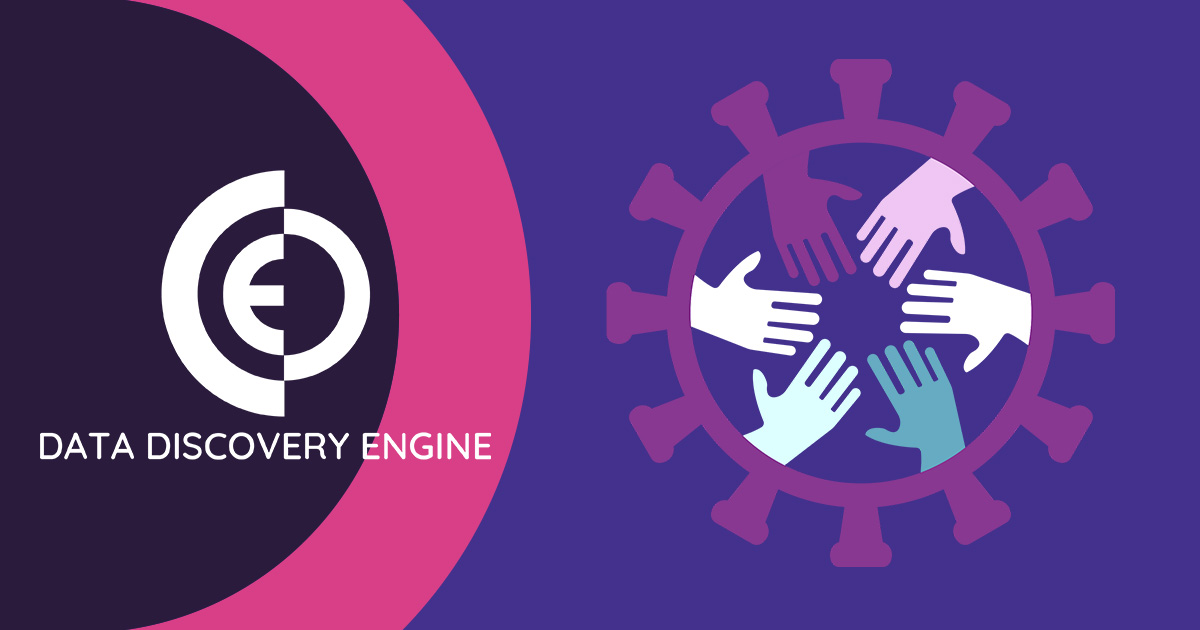
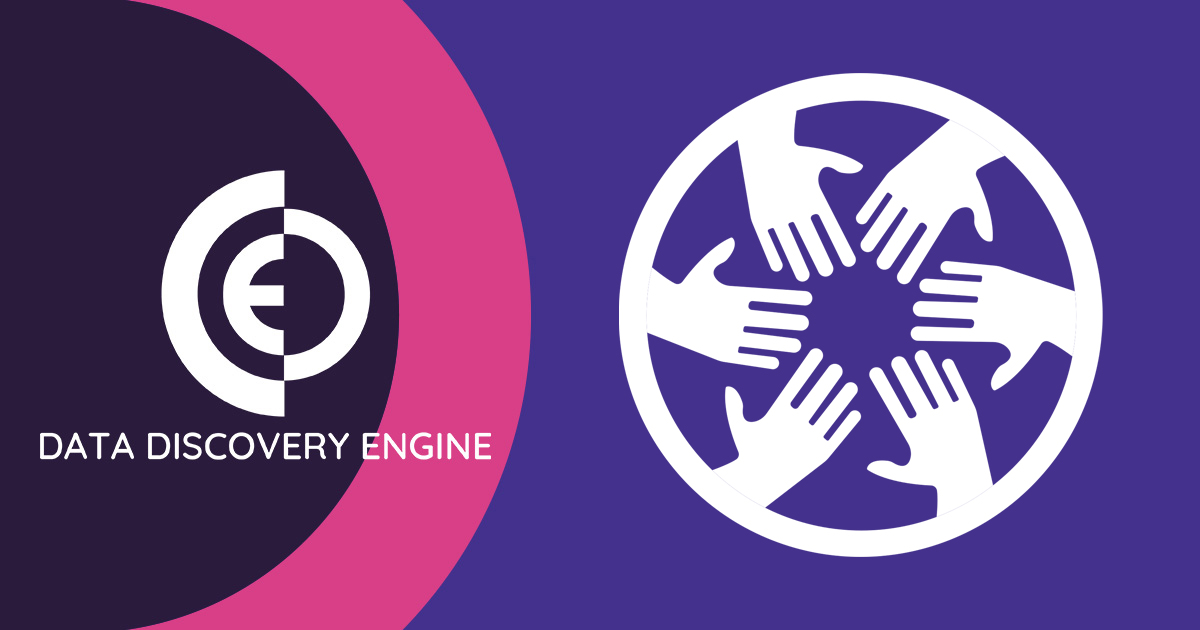
feat: :sparkles: N3C portal renaming

Changed region(s): [[0.4933, 0.0905, 0.9558, 0.9048]]

diff --git a/nuxt-app/store/modules/portals.js b/nuxt-app/store/modules/portals.js
@@ -86,7 +86,7 @@ export const portals = {
         icon_color: "#5fb5e5",
       },
       {
-        name: "The National COVID Cohort Collaborative (N3C)",
+        name: "The National Clinical Cohort Collaborative (N3C)",
         shortName: "N3C",
         privateSubmissionsOnly: false,
         privateOrganization: {
@@ -97,13 +97,13 @@ export const portals = {
           "The N3C aims to improve the efficiency and accessibility of analyses using a very large row-level (patient-level) COVID-19 clinical dataset and demonstrate a novel approach for collaborative pandemic data sharing.",
         linkname: "n3c",
         description: `<p>
-              The National COVID Cohort Collaborative (N3C) is a complementary and synergistic partnership among the <a href="https://ncats.nih.gov/ctsa" target="_blank">Clinical and Translational Science Awards (CTSA) Program</a> hubs, the <a href="https://cd2h.org/" target="_blank">National Center for Data to Health (CD2H)</a>, distributed clinical data networks (PCORnet, OHDSI, ACT/i2b2, TriNetX), and other partner organizations, with overall stewardship by NIH’s  <a href="https://ncats.nih.gov/" target="_blank">National Center for Advancing Translational Sciences (NCATS)</a>.
+              The National Clinical Cohort Collaborative (N3C) is a complementary and synergistic partnership among the <a href="https://ncats.nih.gov/ctsa" target="_blank">Clinical and Translational Science Awards (CTSA) Program</a> hubs, the <a href="https://cd2h.org/" target="_blank">National Center for Data to Health (CD2H)</a>, distributed clinical data networks (PCORnet, OHDSI, ACT/i2b2, TriNetX), and other partner organizations, with overall stewardship by NIH’s  <a href="https://ncats.nih.gov/" target="_blank">National Center for Advancing Translational Sciences (NCATS)</a>.
             </p><p>
               The N3C aims to improve the efficiency and accessibility of analyses using a very large row-level (patient-level) COVID-19 clinical dataset and demonstrate a novel approach for collaborative pandemic data sharing.
             </p>`,
         image: n3cLogo,
         portalicon: n3c,
-        site: "https://covid.cd2h.org/N3C",
+        site: "https://n3c.ncats.nih.gov/clinical-cohort",
         schema: "/ns/n3c",
         showCoverage: true,
         coverage: ["Dataset"],

diff --git a/nuxt-app/pages/portal/[portal_name]/index.vue b/nuxt-app/pages/portal/[portal_name]/index.vue
@@ -42,7 +42,7 @@ if (portal_name) {
       break;
     case "n3c":
       portal = portals.find((item) => item.keyName == portal_name);
-      featuredImg = "https://i.postimg.cc/ry0C25bK/n3cfeatured.jpg";
+      featuredImg = "https://i.postimg.cc/SRbxhC4k/n3cfeatured.jpg";
       break;
     case "move":
       portal = portals.find((item) => item.keyName == portal_name);

diff --git a/nuxt-app/pages/resource/[id]/index.vue b/nuxt-app/pages/resource/[id]/index.vue
@@ -287,7 +287,7 @@ const schemaLink = computed(() => {
     let parts = metadata.value["@type"].split(":");
     return "/ns/" + parts[0] + "/" + parts[1];
   }
-  return false;
+  return "/ns/schema/" + metadata.value["@type"];
 });
 
 getMetadata(id);
